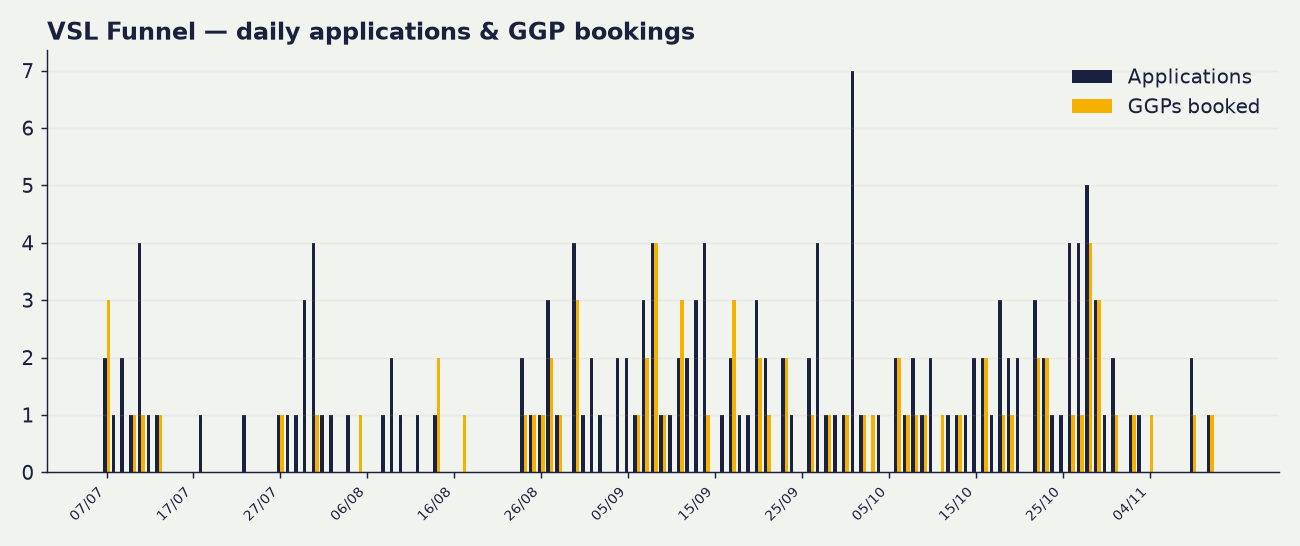
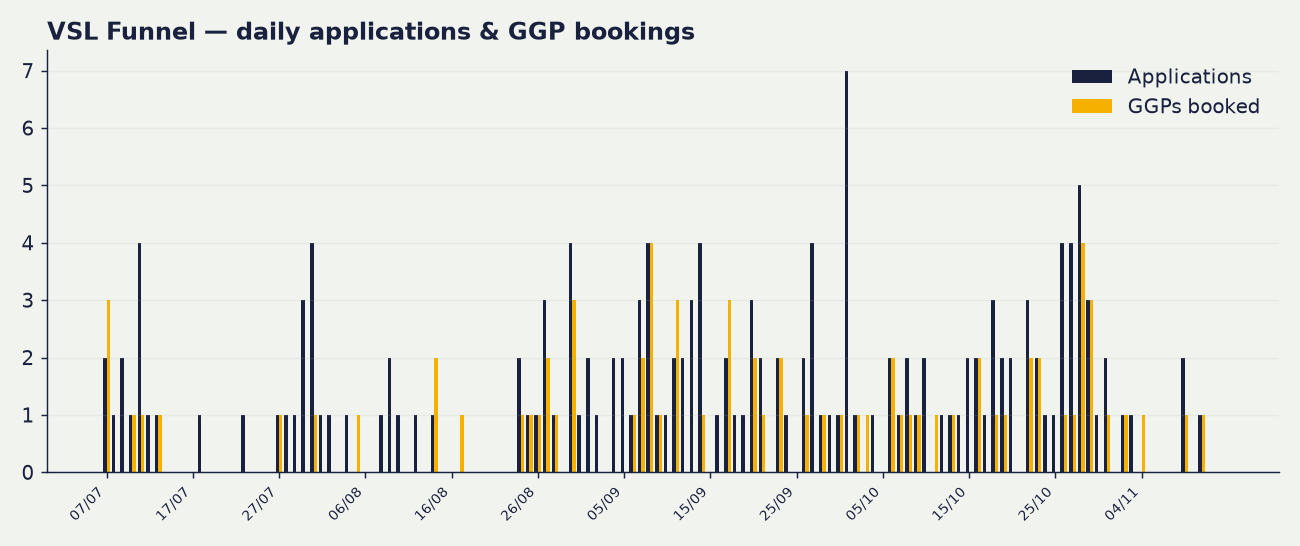
nightly dashboard update 2026-11-13 03:23

diff --git a/content/index.md b/content/index.md
@@ -1,17 +1,17 @@
 # 📈 VSL Funnel Dashboard
 
-_Signups from Stripe (live API). Show-ups from the SBC team Tick Sheet. Spend from Meta. Updated 12 Nov 2026, 03:29 GMT, rebuilds nightly._
+_Signups from Stripe (live API). Show-ups from the SBC team Tick Sheet. Spend from Meta. Updated 13 Nov 2026, 03:23 GMT, rebuilds nightly._
 
 ## 🎯 The headline — both funnels combined
 
 | | |
 |---|---|
-| **Blended CPA** | **£626** |
-| Total spend | **£15,656.60** |
+| **Blended CPA** | **£627** |
+| Total spend | **£15,672.19** |
 | Total signups | **25** |
 | Who signed | Adam Luke, Adam Timpson, Alex Mc Fadden, Alexandru Mardari, Benjamin Furuberg, C Beech, C-Jay Harvey, Conor, Daniel  Steer, Georgia, Harry, Joe Gray-Misiuk, Kirstie Hall, Lily  Colmer, Lisa, MR B CAMPBELL, Matt, Mohit, Musa Rahat, Ross gibbins, Stephen Webb, Tarik Merrett, Tom Wain, Zeeshan Ahmed, ross lachlan |
 
-> £15,657 spent → 25 signed = **£626 blended cost per signup.** VSL 1.0 (mass avatar) and VSL 2.0 (upgraded avatar) share the load: cheap high-volume + premium low-volume blend into one true acquisition cost.
+> £15,672 spent → 25 signed = **£627 blended cost per signup.** VSL 1.0 (mass avatar) and VSL 2.0 (upgraded avatar) share the load: cheap high-volume + premium low-volume blend into one true acquisition cost.
 
 ---
 
@@ -19,9 +19,9 @@ _Signups from Stripe (live API). Show-ups from the SBC team Tick Sheet. Spend fr
 
 | Metric | VSL 1.0 | VSL 2.0 | Combined |
 |---|---|---|---|
-| 🎯 **CPA** | **£553** | **£857** | **£626** |
+| 🎯 **CPA** | **£554** | **£858** | **£627** |
 | 🤝 Signed | 19 | 6 | **25** |
-| 💷 Spent | £10,514.21 | £5,142.39 | **£15,656.60** |
+| 💷 Spent | £10,525.21 | £5,146.98 | **£15,672.19** |
 | ✅ Showed up | 36 | 12 | **48** |
 | 📞 GGPs booked | 75 | 15 | **90** |
 | 📝 Applications | 166 | 43 | **209** |
@@ -39,14 +39,14 @@ _Signups from Stripe (live API). Show-ups from the SBC team Tick Sheet. Spend fr
 
 | Metric | 🇬🇧🇮🇪 UK & Ireland | 🇺🇸🇨🇦 US & Canada | Total |
 |---|---|---|---|
-| 💷 Spent | £10,070.30 | £443.91 | **£10,514.21** |
+| 💷 Spent | £10,081.30 | £443.91 | **£10,525.21** |
 | 👀 Opt-ins | 244 | 41 | **291** |
 | 📝 Applications | 146 | 12 | **167** |
 | 📞 GGPs booked | 65 | 7 | **76** |
 | ✅ Showed up | 34* | 2 | **37*** |
 | 🤝 Signed | 18 | 0 | **19** |
 
-> \* Of those booked, **3** have a call date of today or later (3 UK&I) — not yet had a chance to show up. Show rate will firm up as those calls run.
+> \* Of those booked, **2** have a call date of today or later (2 UK&I) — not yet had a chance to show up. Show rate will firm up as those calls run.
 
 **Rates**
 
@@ -64,15 +64,15 @@ _Signups from Stripe (live API). Show-ups from the SBC team Tick Sheet. Spend fr
 |---|---|---|---|
 | Cost per application | £69 | £37 | **£63** |
 | Cost per GGP booked | £155 | £63 | **£138** |
-| Cost per show-up | £296 | £222 | **£284** |
-| **Cost per acquisition (CPA)** | **£559** | **—** | **£553** |
+| Cost per show-up | £297 | £222 | **£284** |
+| **Cost per acquisition (CPA)** | **£560** | **—** | **£554** |
 
 **Ad spend split**
 
 | Band | 🇬🇧🇮🇪 UK & Ireland | 🇺🇸🇨🇦 US & Canada | Total |
 |---|---|---|---|
-| 🔥 Warm | £6,378.33 | £222.02 | **£6,600.35** |
-| ❄ Cold | £3,691.97 | £221.89 | **£3,913.86** |
+| 🔥 Warm | £6,383.97 | £222.02 | **£6,605.99** |
+| ❄ Cold | £3,697.33 | £221.89 | **£3,919.22** |
 
 > 🤝 Signed — Adam Luke, Adam Timpson, Alex Mc Fadden, Alexandru Mardari, Benjamin Furuberg, C Beech, C-Jay Harvey, Daniel  Steer, Joe Gray-Misiuk, Kirstie Hall, Lily  Colmer, MR B CAMPBELL, Musa Rahat, Ross gibbins, Stephen Webb, Tarik Merrett, Tom Wain, Zeeshan Ahmed, ross lachlan
 
@@ -91,7 +91,7 @@ _Signups from Stripe (live API). Show-ups from the SBC team Tick Sheet. Spend fr
 
 | Metric | Value |
 |---|---|
-| 💷 Spent | **£5,142.39** |
+| 💷 Spent | **£5,146.98** |
 | 👀 Opt-ins | **114** |
 | 📝 Applications | **43** |
 | 📞 GGPs booked | **15** |
@@ -115,11 +115,11 @@ _Signups from Stripe (live API). Show-ups from the SBC team Tick Sheet. Spend fr
 | Cost per application | £120 |
 | Cost per GGP booked | £343 |
 | Cost per show-up | £429 |
-| **Cost per acquisition (CPA)** | **£857** |
+| **Cost per acquisition (CPA)** | **£858** |
 
 **Ad spend split**
 
-- 🔥 Warm: £4,263.23
+- 🔥 Warm: £4,267.82
 - ❄ Cold: £879.16
 
 ![VSL 2.0 — upgraded avatar — funnel](vsl2_funnel_stages.png)
@@ -137,4 +137,4 @@ _Signups from Stripe (live API). Show-ups from the SBC team Tick Sheet. Spend fr
 > _Applications + GGP-booked are TRUE daily series (from submission timestamps). Opt-ins have no per-day source in the Opt-ins tab, so opt-ins appear as a total only, not a daily line._
 
 ---
-<!-- Auto-generated by the VSL dashboard nightly pipeline. Do not edit by hand. 12 Nov 2026, 03:29 GMT -->
+<!-- Auto-generated by the VSL dashboard nightly pipeline. Do not edit by hand. 13 Nov 2026, 03:23 GMT -->
